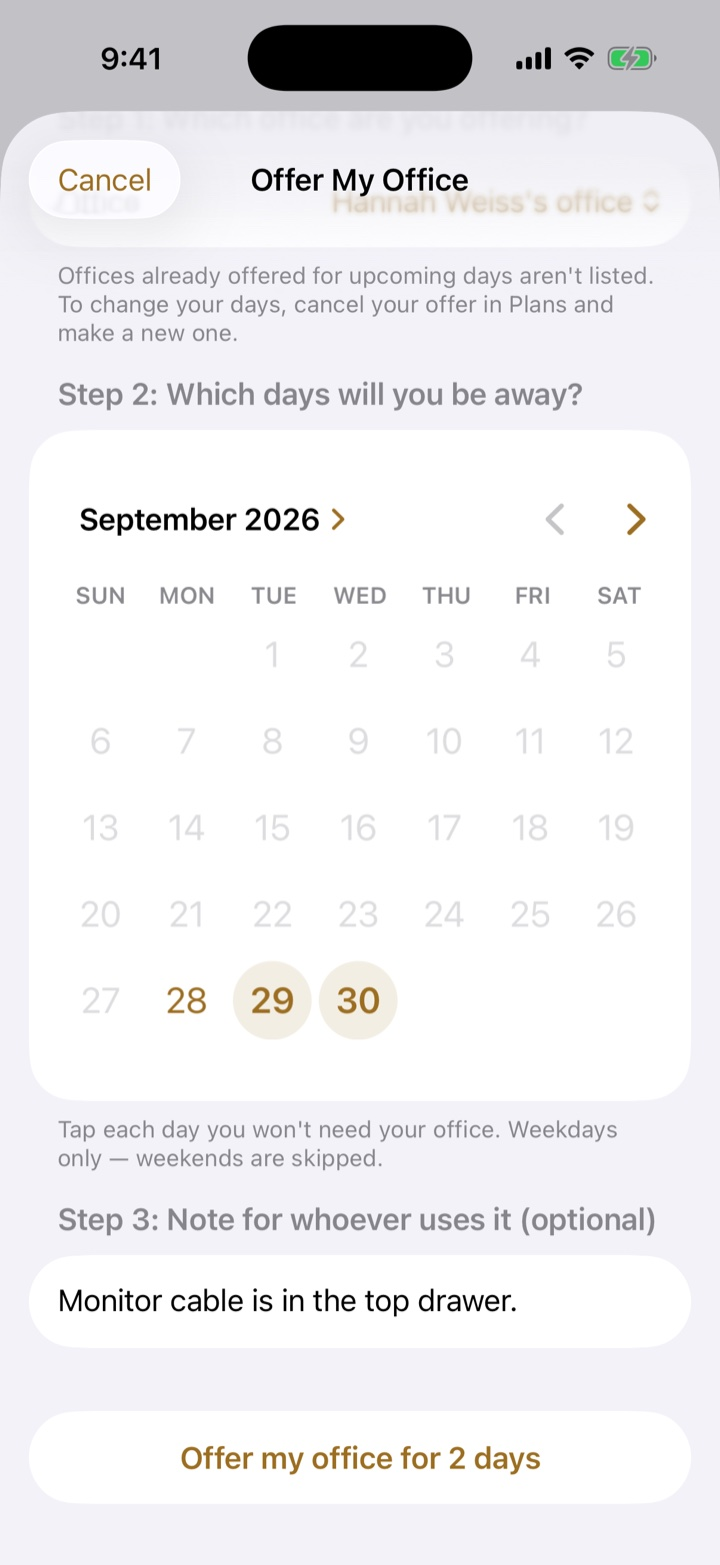
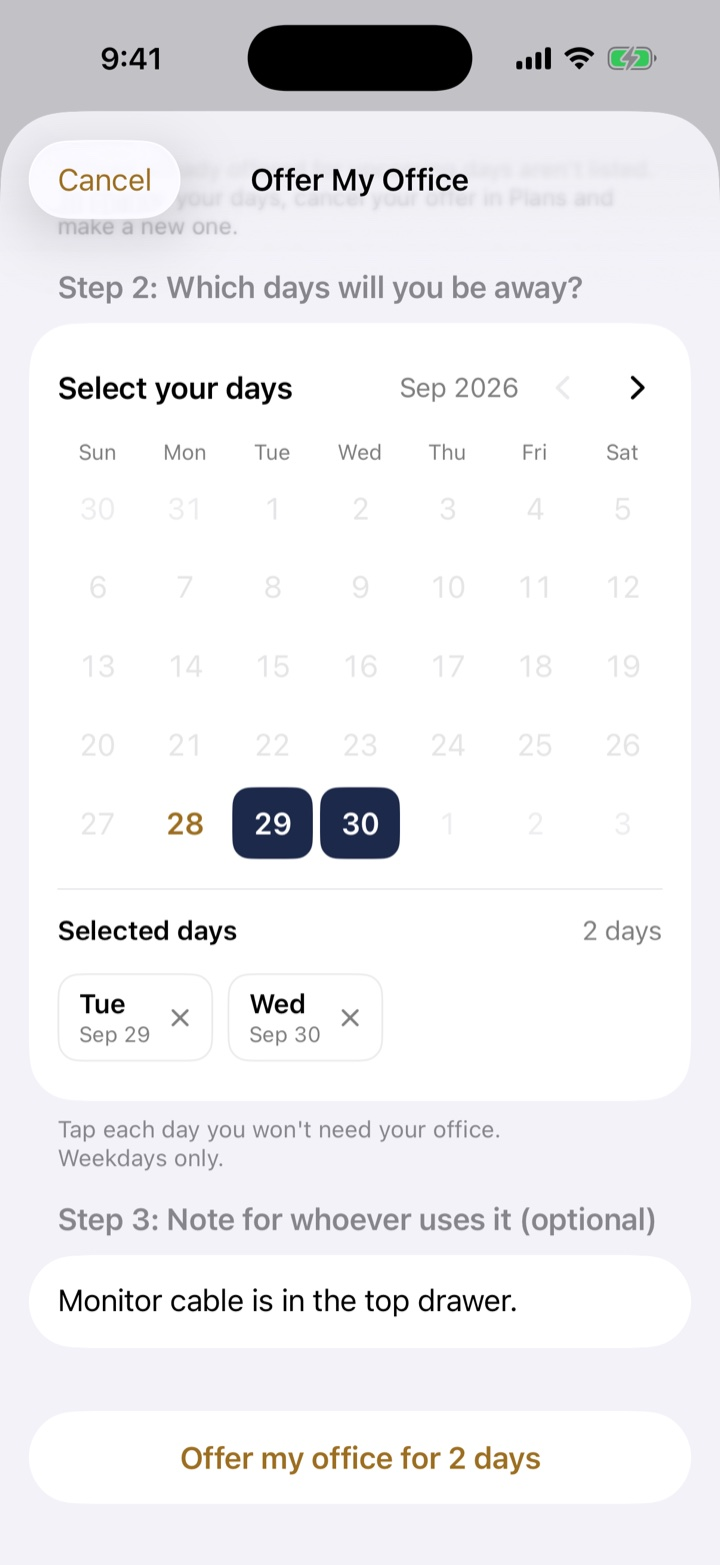
Update the phone demo to the redesigned app

diff --git a/index.html b/index.html
@@ -22,7 +22,7 @@
 <link rel="preconnect" href="https://fonts.googleapis.com">
 <link rel="preconnect" href="https://fonts.gstatic.com" crossorigin>
 <link rel="stylesheet" href="https://fonts.googleapis.com/css2?family=Hanken+Grotesk:wght@400;500;600;700&family=Montserrat:wght@600&display=swap">
-<link rel="stylesheet" href="styles.css?v=17">
+<link rel="stylesheet" href="styles.css?v=18">
 <script type="application/ld+json">
 {"@context":"https://schema.org","@type":"SoftwareApplication","name":"OfficeSwap","operatingSystem":"iOS","applicationCategory":"BusinessApplication","description":"Office owners offer their office on the days they're away, and OfficeSwap assigns it automatically to someone who needs one, first come, first served.","url":"https://officeswap.co/","image":"https://officeswap.co/images/og.jpg"}
 </script>
@@ -56,9 +56,9 @@
     </div>
   </div>
   <div class="phones" aria-hidden="false">
-    <div class="iphone p-left"><img src="images/waitlist.jpg" alt="The Waitlist tab in OfficeSwap" width="720" height="1565"></div>
-    <div class="iphone p-center"><img src="images/board.jpg?v=3" alt="The Board tab in OfficeSwap, showing open offices and visitors for the day" width="720" height="1565"></div>
-    <div class="iphone p-right"><img src="images/plans.jpg" alt="The Plans tab in OfficeSwap, listing requests and the office each person got" width="720" height="1565"></div>
+    <div class="iphone p-left"><img src="images/waitlist.jpg?v=4" alt="The Waitlist tab in OfficeSwap" width="720" height="1565"></div>
+    <div class="iphone p-center"><img src="images/board.jpg?v=4" alt="The Board tab in OfficeSwap, showing open offices and visitors for the day" width="720" height="1565"></div>
+    <div class="iphone p-right"><img src="images/plans.jpg?v=4" alt="The Plans tab in OfficeSwap, listing requests and the office each person got" width="720" height="1565"></div>
   </div>
 </section>
 
@@ -100,16 +100,16 @@
     <div class="stage reveal">
       <div class="iphone lg">
         <div class="screen" id="screen">
-          <img class="on" src="images/board.jpg?v=3" alt="Board tab" width="720" height="1565">
-          <img src="images/waitlist.jpg" alt="Waitlist tab" width="720" height="1565" loading="lazy">
-          <img src="images/plans.jpg" alt="Plans tab" width="720" height="1565" loading="lazy">
-          <img src="images/export.jpg?v=2" alt="Export tab" width="720" height="1565" loading="lazy">
-          <img src="images/settings.jpg" alt="Settings tab" width="720" height="1565" loading="lazy">
-          <img src="images/flow-request-form.jpg" alt="Request an Office form, filled in" width="720" height="1565" loading="lazy">
-          <img src="images/flow-request-done.jpg" alt="You have an office confirmation" width="720" height="1565" loading="lazy">
-          <img src="images/flow-offer-form.jpg" alt="Offer My Office form, filled in" width="720" height="1565" loading="lazy">
-          <img src="images/flow-offer-done.jpg" alt="Board after offering an office" width="720" height="1565" loading="lazy">
-          <img src="images/waitlist-open.jpg" alt="Waitlist with Grace Liu's request expanded" width="720" height="1565" loading="lazy">
+          <img class="on" src="images/board.jpg?v=4" alt="Board tab" width="720" height="1565">
+          <img src="images/waitlist.jpg?v=4" alt="Waitlist tab" width="720" height="1565" loading="lazy">
+          <img src="images/plans.jpg?v=4" alt="Plans tab" width="720" height="1565" loading="lazy">
+          <img src="images/export.jpg?v=4" alt="Export tab" width="720" height="1565" loading="lazy">
+          <img src="images/settings.jpg?v=4" alt="Settings tab" width="720" height="1565" loading="lazy">
+          <img src="images/flow-request-form.jpg?v=4" alt="Request an Office form, filled in" width="720" height="1565" loading="lazy">
+          <img src="images/flow-request-done.jpg?v=4" alt="You have an office confirmation" width="720" height="1565" loading="lazy">
+          <img src="images/flow-offer-form.jpg?v=4" alt="Offer My Office form, filled in" width="720" height="1565" loading="lazy">
+          <img src="images/flow-offer-done.jpg?v=4" alt="Board after offering an office" width="720" height="1565" loading="lazy">
+          <img src="images/waitlist-open.jpg?v=4" alt="Waitlist with Grace Liu's request expanded" width="720" height="1565" loading="lazy">
           <div class="hots" id="hots"></div>
           <div class="ov" id="ov-cal" hidden></div>
           <div class="ov" id="ov-result" hidden></div>
@@ -162,7 +162,7 @@
         <h3>First come, first served</h3><p>The earliest request wins.</p>
       </div>
       <div class="bt hero-tile reveal" style="grid-area:c">
-        <div class="iphone"><img src="images/plans.jpg" alt="The Plans tab in OfficeSwap" width="720" height="1565" loading="lazy"></div>
+        <div class="iphone"><img src="images/plans.jpg?v=4" alt="The Plans tab in OfficeSwap" width="720" height="1565" loading="lazy"></div>
       </div>
       <div class="bt reveal" style="grid-area:d">
         <div class="ic-sheet"><svg viewBox="0 0 24 24" fill="none" stroke="currentColor" stroke-width="1.8" stroke-linecap="round" stroke-linejoin="round" aria-hidden="true"><rect x="5" y="10.5" width="14" height="10" rx="2.5"/><path d="M8 10.5V8a4 4 0 018 0v2.5"/></svg></div>
@@ -296,14 +296,14 @@
     return TAB_NAMES.map(function (n, i) { return { r: [0.05 + i * 0.18, 0.895, 0.18, 0.08], go: i, label: "Show the " + n + " tab" }; });
   }
   var boardCards = [
-    { r: [0.04, 0.19, 0.92, 0.145], go: 5, label: "Request an office" },
-    { r: [0.04, 0.35, 0.92, 0.12], go: 7, label: "Offer my office" }
+    { r: [0.04, 0.277, 0.92, 0.144], go: 5, label: "Request an office" },
+    { r: [0.04, 0.436, 0.92, 0.121], go: 7, label: "Offer my office" }
   ];
   var MAP = {
     0: tabs().concat(boardCards),
-    1: tabs().concat([{ r: [0.04, 0.19, 0.92, 0.075], go: 9, label: "Show Grace Liu's request details" }]),
+    1: tabs().concat([{ r: [0.04, 0.193, 0.92, 0.092], go: 9, label: "Show Grace Liu's request details" }]),
     2: tabs(), 3: tabs(), 4: tabs(),
-    9: tabs().concat([{ r: [0.04, 0.19, 0.92, 0.175], go: 1, label: "Hide Grace Liu's request details" }]),
+    9: tabs().concat([{ r: [0.04, 0.193, 0.92, 0.172], go: 1, label: "Hide Grace Liu's request details" }]),
     5: [{ r: [0.74, 0.085, 0.22, 0.06], go: 0, label: "Cancel" }],
     6: [{ r: [0.76, 0.085, 0.2, 0.06], go: 0, label: "Done" }],
     7: [{ r: [0.03, 0.085, 0.22, 0.06], go: 0, label: "Cancel" }],
@@ -347,7 +347,7 @@
     5: state({ "2026-8-28": new Date(2026, 8, 28), "2026-8-29": new Date(2026, 8, 29) }),
     7: state({ "2026-8-29": new Date(2026, 8, 29), "2026-8-30": new Date(2026, 8, 30) })
   };
-  var CARD_TOP = { 5: 349, 7: 240 };           // calendar card position, in iPhone points
+  var CARD_TOP = { 5: 306, 7: 181 };           // calendar card position, in iPhone points
   var MONTHS = ["January","February","March","April","May","June","July","August","September","October","November","December"];
   var DOW = ["Sun","Mon","Tue","Wed","Thu","Fri","Sat"];
   var ovCal = document.getElementById("ov-cal"), ovRes = document.getElementById("ov-result");
@@ -357,33 +357,49 @@
       .sort(function (a, b) { return a - b; });
   }
   var CHEV_L = '<svg viewBox="0 0 12 20" aria-hidden="true"><path d="M10 2L2 10l8 8" fill="none" stroke="currentColor" stroke-width="2.6" stroke-linecap="round" stroke-linejoin="round"/></svg>';
+  var XMARK = '<svg viewBox="0 0 12 12" aria-hidden="true"><path d="M2.5 2.5l7 7M9.5 2.5l-7 7" fill="none" stroke="currentColor" stroke-width="1.7" stroke-linecap="round"/></svg>';
   var CHEV_R = '<svg viewBox="0 0 12 20" aria-hidden="true"><path d="M2 2l8 8-8 8" fill="none" stroke="currentColor" stroke-width="2.6" stroke-linecap="round" stroke-linejoin="round"/></svg>';
+  // Mirrors the app's calendar: month grid with the neighbouring months' days
+  // greyed out, weekdays from "today" on can be picked, picks show as navy
+  // squares and as removable chips under "Selected days".
   function renderCal(i) {
     var st = cal[i], m = st.month, y = m.getFullYear(), mo = m.getMonth();
     var first = new Date(y, mo, 1).getDay(), days = new Date(y, mo + 1, 0).getDate();
     var canPrev = m > FIRST_MONTH, canNext = m < LAST_MONTH;
     var h = '<div class="cal" style="--top:' + CARD_TOP[i] + '">';
-    h += '<div class="cal-head"><b>' + MONTHS[mo] + " " + y + '</b><span class="cal-small">' + CHEV_R + '</span>';
-    h += '<button type="button" class="cal-nav prev" ' + (canPrev ? "" : "disabled") + ' aria-label="Previous month">' + CHEV_L + '</button>';
-    h += '<button type="button" class="cal-nav next" ' + (canNext ? "" : "disabled") + ' aria-label="Next month">' + CHEV_R + '</button></div>';
-    h += '<div class="cal-dow">' + DOW.map(function (d) { return "<span>" + d.toUpperCase() + "</span>"; }).join("") + "</div><div class=\"cal-grid\">";
-    for (var b = 0; b < first; b++) h += "<span></span>";
-    for (var d = 1; d <= days; d++) {
-      var dt = new Date(y, mo, d), k = key(dt), past = dt < TODAY, on = !!st.sel[k], today = k === key(TODAY);
-      h += '<button type="button" data-k="' + k + '" class="day' + (past ? " past" : "") + (on ? " on" : "") + (today ? " today" : "") + '"' +
-           (past ? " disabled" : "") + ' aria-pressed="' + on + '" aria-label="' + dt.toDateString() + '">' + d + "</button>";
-    }
-    h += "</div></div>";
-    var n = weekdays(st.sel).length;
+    h += '<div class="cal-head"><b>Select your days</b><span class="cal-month">' + SHORT_MON[mo] + " " + y + "</span>";
+    h += '<button type="button" class="cal-nav prev" ' + (canPrev ? "" : "disabled") + ' aria-label="Previous month">' + CHEV_L + "</button>";
+    h += '<button type="button" class="cal-nav next" ' + (canNext ? "" : "disabled") + ' aria-label="Next month">' + CHEV_R + "</button></div>";
+    h += '<div class="cal-dow">' + DOW.map(function (d) { return "<span>" + d + "</span>"; }).join("") + '</div><div class="cal-grid">';
+    var cells = [];
+    for (var b = first; b > 0; b--) cells.push({ d: new Date(y, mo, 1 - b), inMonth: false });
+    for (var d = 1; d <= days; d++) cells.push({ d: new Date(y, mo, d), inMonth: true });
+    while (cells.length % 7) cells.push({ d: new Date(y, mo, days + cells.length - first - days + 1), inMonth: false });
+    cells.forEach(function (c) {
+      var dt = c.d, k = key(dt), wd = dt.getDay();
+      var pickable = c.inMonth && wd !== 0 && wd !== 6 && dt >= TODAY;
+      var on = c.inMonth && !!st.sel[k], today = k === key(TODAY);
+      h += '<button type="button" data-k="' + k + '" class="day' + (c.inMonth ? "" : " other") + (pickable ? "" : " off") + (on ? " on" : "") + (today ? " today" : "") + '"' +
+           (pickable ? "" : " disabled") + ' aria-pressed="' + on + '" aria-label="' + dt.toDateString() + '">' + dt.getDate() + "</button>";
+    });
+    h += "</div>";
+    var picked = weekdays(st.sel), n = picked.length;
+    h += '<div class="cal-divider"></div><div class="cal-sel"><b>Selected days</b><span>' + (n === 0 ? "None yet" : n + (n === 1 ? " day" : " days")) + "</span></div>";
+    h += '<div class="cal-chips">' + picked.map(function (dt) {
+      return '<span class="chip-day"><span><b>' + SHORT_DOW[dt.getDay()] + "</b><i>" + SHORT_MON[dt.getMonth()] + " " + dt.getDate() + '</i></span><button type="button" data-rm="' + key(dt) + '" aria-label="Remove ' + dt.toDateString() + '">' + XMARK + "</button></span>";
+    }).join("") + "</div></div>";
     var label = n === 0 ? "Pick your days above" : (i === 5 ? "Request an office for " : "Offer my office for ") + n + (n === 1 ? " day" : " days");
     h += '<button type="button" class="cal-submit"' + (n === 0 ? " disabled" : "") + ">" + label + "</button>";
     ovCal.innerHTML = h;
-    ovCal.querySelectorAll(".day").forEach(function (btn) {
+    ovCal.querySelectorAll(".day:not(.off)").forEach(function (btn) {
       btn.addEventListener("click", function () {
         var k = btn.dataset.k, p = k.split("-");
         if (st.sel[k]) delete st.sel[k]; else st.sel[k] = new Date(+p[0], +p[1], +p[2]);
         renderCal(i);
       });
+    });
+    ovCal.querySelectorAll("[data-rm]").forEach(function (btn) {
+      btn.addEventListener("click", function () { delete st.sel[btn.dataset.rm]; renderCal(i); });
     });
     ovCal.querySelector(".prev").addEventListener("click", function () { st.month = new Date(y, mo - 1, 1); renderCal(i); });
     ovCal.querySelector(".next").addEventListener("click", function () { st.month = new Date(y, mo + 1, 1); renderCal(i); });

diff --git a/styles.css b/styles.css
@@ -423,27 +423,35 @@ footer.mr a.foot-social:hover { color: var(--brass); border-color: color-mix(in 
 .ov { position: absolute; inset: 0; z-index: 6; pointer-events: none; --pt: calc(100cqw / 402); font-family: -apple-system, BlinkMacSystemFont, "SF Pro Text", Inter, "Helvetica Neue", Arial, sans-serif; color: #000; letter-spacing: -0.01em; }
 .ov[hidden] { display: none; }
 .ov button { font: inherit; color: inherit; border: 0; background: none; padding: 0; margin: 0; -webkit-tap-highlight-color: transparent; }
-.cal { position: absolute; pointer-events: auto; left: calc(var(--pt) * 16); width: calc(var(--pt) * 370); top: calc(var(--pt) * var(--top)); height: calc(var(--pt) * 375); background: #fff; border-radius: calc(var(--pt) * 26); }
-.cal-head { position: absolute; left: calc(var(--pt) * 28); right: calc(var(--pt) * 18); top: calc(var(--pt) * 38); height: calc(var(--pt) * 24); display: flex; align-items: center; gap: calc(var(--pt) * 6); }
-.cal-head b { font-size: calc(var(--pt) * 17); font-weight: 600; }
-.cal-small { color: #9c6e21; width: calc(var(--pt) * 7); height: calc(var(--pt) * 12); display: inline-grid; }
-.cal-small svg { width: 100%; height: 100%; }
-.ov .cal-nav { position: absolute; top: 0; width: calc(var(--pt) * 30); height: calc(var(--pt) * 24); display: grid; place-items: center; color: #9c6e21; cursor: pointer; }
-.cal-nav svg { width: calc(var(--pt) * 10); height: calc(var(--pt) * 17); }
-.ov .cal-nav:disabled { color: #c5c5c7; cursor: default; }
-.cal-nav.prev { right: calc(var(--pt) * 46); } .cal-nav.next { right: calc(var(--pt) * 1); }
-.cal-dow, .cal-grid { position: absolute; left: calc(var(--pt) * 16); width: calc(var(--pt) * 336); display: grid; grid-template-columns: repeat(7, 1fr); }
-.cal-dow { top: calc(var(--pt) * 84); }
-.cal-dow span { text-align: center; font-size: calc(var(--pt) * 13); font-weight: 600; color: #8a8a8e; }
-.cal-grid { top: calc(var(--pt) * 104); grid-auto-rows: calc(var(--pt) * 48); }
-.day { display: grid; place-items: center; font-size: calc(var(--pt) * 20); cursor: pointer; position: relative; }
-.day::before { content: ""; position: absolute; width: calc(var(--pt) * 44); height: calc(var(--pt) * 44); border-radius: 50%; background: transparent; z-index: -1; transition: background-color .15s; }
-.day { z-index: 0; }
-.day:hover:not(:disabled)::before { background: #f7f4ee; }
-.day.today { color: #9c6e21; }
-.day.on { color: #9c6e21; font-weight: 600; }
-.day.on::before, .day.on:hover::before { background: #f3eee4; }
-.day.past { color: #dddddf; cursor: default; }
+.cal { position: absolute; pointer-events: auto; left: calc(var(--pt) * 16); width: calc(var(--pt) * 370); top: calc(var(--pt) * var(--top)); height: calc(var(--pt) * 435); background: #fff; border-radius: calc(var(--pt) * 26); }
+.cal-head { position: absolute; left: calc(var(--pt) * 16); right: calc(var(--pt) * 16); top: calc(var(--pt) * 22); height: calc(var(--pt) * 30); display: flex; align-items: center; }
+.cal-head b { font-size: calc(var(--pt) * 17); font-weight: 600; flex: 1; }
+.cal-month { font-size: calc(var(--pt) * 15); color: #8a8a8e; margin-right: calc(var(--pt) * 10); }
+.ov .cal-nav { position: static; width: calc(var(--pt) * 30); height: calc(var(--pt) * 30); display: grid; place-items: center; color: #000; cursor: pointer; }
+.ov .cal-nav + .cal-nav { margin-left: calc(var(--pt) * 10); }
+.ov .cal-nav svg { width: calc(var(--pt) * 9); height: calc(var(--pt) * 15); }
+.ov .cal-nav:disabled { color: #c7c7cc; cursor: default; }
+.cal-dow, .cal-grid { position: absolute; left: calc(var(--pt) * 16); width: calc(var(--pt) * 338); display: grid; grid-template-columns: repeat(7, 1fr); }
+.cal-dow { top: calc(var(--pt) * 64); }
+.cal-dow span { text-align: center; font-size: calc(var(--pt) * 12); color: #8a8a8e; }
+.cal-grid { top: calc(var(--pt) * 83.7); grid-auto-rows: calc(var(--pt) * 40); row-gap: calc(var(--pt) * 4); column-gap: calc(var(--pt) * 4); }
+.ov .day { display: grid; place-items: center; font-size: calc(var(--pt) * 17); border-radius: calc(var(--pt) * 10); cursor: pointer; color: #000; font-variant-numeric: tabular-nums; transition: background-color .12s; }
+.ov .day::before { content: none; }
+.ov .day:hover:not(.off):not(.on) { background: #f2f2f5; }
+.ov .day.today { color: #9c6e21; font-weight: 600; }
+.ov .day.off { color: #e5e5e7; cursor: default; }
+.ov .day.other { color: #ededee; }
+.ov .day.on { background: #1c294a; color: #fff; font-weight: 600; }
+.cal-divider { position: absolute; left: calc(var(--pt) * 16); right: calc(var(--pt) * 16); top: calc(var(--pt) * 316); height: 1px; background: #c6c6c8; }
+.cal-sel { position: absolute; left: calc(var(--pt) * 16); right: calc(var(--pt) * 16); top: calc(var(--pt) * 330); display: flex; justify-content: space-between; font-size: calc(var(--pt) * 15); }
+.cal-sel b { font-weight: 600; } .cal-sel span { color: #8a8a8e; }
+.cal-chips { position: absolute; left: calc(var(--pt) * 16); right: 0; top: calc(var(--pt) * 368); display: flex; gap: calc(var(--pt) * 8); overflow: hidden; }
+.chip-day { flex: none; display: inline-flex; align-items: center; gap: calc(var(--pt) * 10); height: calc(var(--pt) * 40); padding: 0 calc(var(--pt) * 12); border-radius: calc(var(--pt) * 12); background: #fff; box-shadow: inset 0 0 0 1px rgba(0,0,0,.08); }
+.chip-day > span { display: flex; flex-direction: column; line-height: 1.15; }
+.chip-day b { font-size: calc(var(--pt) * 15); font-weight: 600; }
+.chip-day i { font-style: normal; font-size: calc(var(--pt) * 12); color: #8a8a8e; }
+.ov .chip-day button { display: grid; place-items: center; color: #8a8a8e; cursor: pointer; width: calc(var(--pt) * 16); height: calc(var(--pt) * 16); }
+.chip-day button svg { width: calc(var(--pt) * 11); height: calc(var(--pt) * 11); }
 .cal-submit { position: absolute; pointer-events: auto; left: calc(var(--pt) * 16); width: calc(var(--pt) * 370); top: calc(var(--pt) * 788); height: calc(var(--pt) * 52); border-radius: calc(var(--pt) * 26) !important; background: #fff !important; color: #9c6e21 !important; font-size: calc(var(--pt) * 17) !important; font-weight: 600 !important; cursor: pointer; }
 .cal-submit:disabled { color: #b6b6bb !important; cursor: default; }
 .cal-submit:active:not(:disabled) { background: #f1f1f4 !important; }
